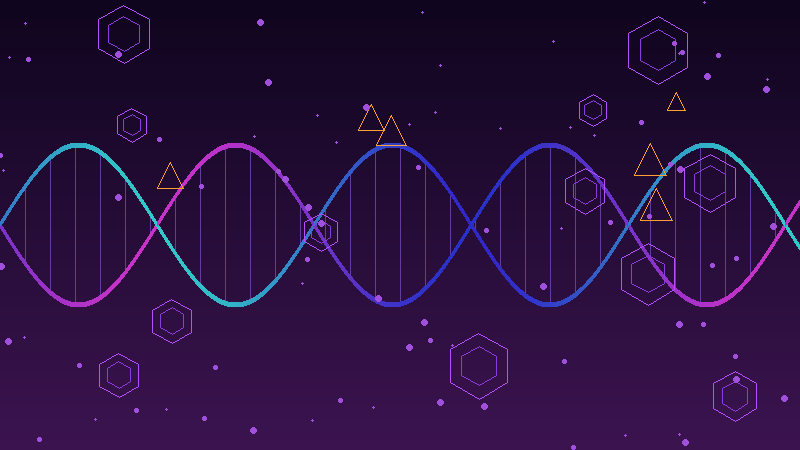
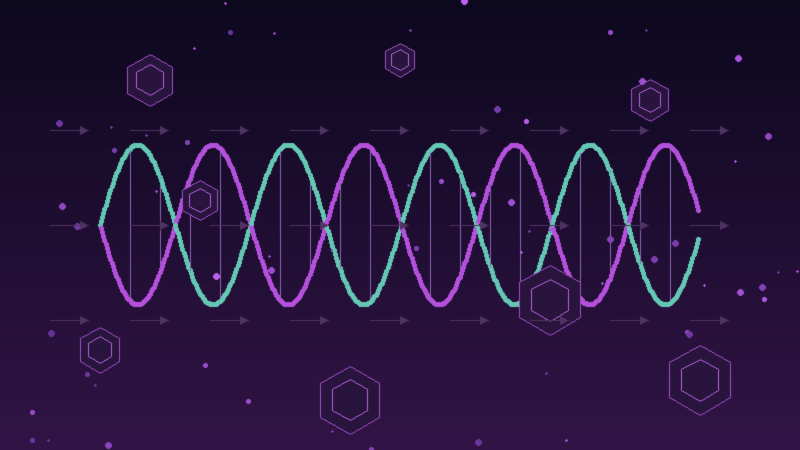
Monday

diff --git a/index.html b/index.html
@@ -1428,29 +1428,29 @@ footer .container {
 
     <div class="news-grid">
       <!-- Curated industry articles — updated bi-weekly -->
-      <a href="https://www.science.org/doi/10.1126/scirobotics.adt0187" target="_blank" class="news-card">
-        <img src="news-article-1.png" alt="Autonomous AI surgical robots" class="news-card-image">
+      <a href="https://www.science.org/doi/10.1126/scirobotics.adt3093" target="_blank" class="news-card">
+        <img src="news-article-1.png" alt="Surgical embodied intelligence for autonomous laparoscopic robotics" class="news-card-image">
         <div class="news-card-body">
-          <div class="news-card-source">Science Robotics &middot; 2026</div>
-          <div class="news-card-title">Will Your Next Surgeon Be a Robot? Autonomy and AI in Robotic Surgery</div>
+          <div class="news-card-source">Science Robotics &middot; 2025</div>
+          <div class="news-card-title">Surgical Embodied Intelligence for Generalized Task Autonomy in Laparoscopic Surgery</div>
           <span class="news-card-link">Read Article &rarr;</span>
         </div>
       </a>
 
-      <a href="https://www.nature.com/articles/s41591-025-04073-z" target="_blank" class="news-card">
-        <img src="news-article-2.png" alt="AAV gene therapy vector genome safety" class="news-card-image">
+      <a href="https://www.frontiersin.org/journals/molecular-medicine/articles/10.3389/fmmed.2025.1709095/full" target="_blank" class="news-card">
+        <img src="news-article-2.png" alt="AAV vector manufacturing advances for gene therapy" class="news-card-image">
         <div class="news-card-body">
-          <div class="news-card-source">Nature Medicine &middot; 2026</div>
-          <div class="news-card-title">Contaminating Plasmid Sequences and Disrupted Vector Genomes After AAV Gene Therapy</div>
+          <div class="news-card-source">Frontiers in Molecular Medicine &middot; 2025</div>
+          <div class="news-card-title">Advancing AAV Vector Manufacturing: Challenges, Innovations, and Future Directions</div>
           <span class="news-card-link">Read Article &rarr;</span>
         </div>
       </a>
 
-      <a href="https://www.cell.com/cell-stem-cell/abstract/S1934-5909(25)00080-3" target="_blank" class="news-card">
-        <img src="news-article-3.png" alt="Engineered heart tissue patches for cardiac repair" class="news-card-image">
+      <a href="https://www.nature.com/articles/s41551-025-01522-5" target="_blank" class="news-card">
+        <img src="news-article-3.png" alt="Stem cell derived NK cells for cancer immunotherapy" class="news-card-image">
         <div class="news-card-body">
-          <div class="news-card-source">Cell Stem Cell &middot; 2025</div>
-          <div class="news-card-title">Engineered Heart Tissue Patches: A Milestone in Cardiac Regenerative Medicine</div>
+          <div class="news-card-source">Nature Biomedical Engineering &middot; 2026</div>
+          <div class="news-card-title">One Stem Cell Generates 14 Million Tumor-Killing NK Cells in Cancer Breakthrough</div>
           <span class="news-card-link">Read Article &rarr;</span>
         </div>
       </a>
